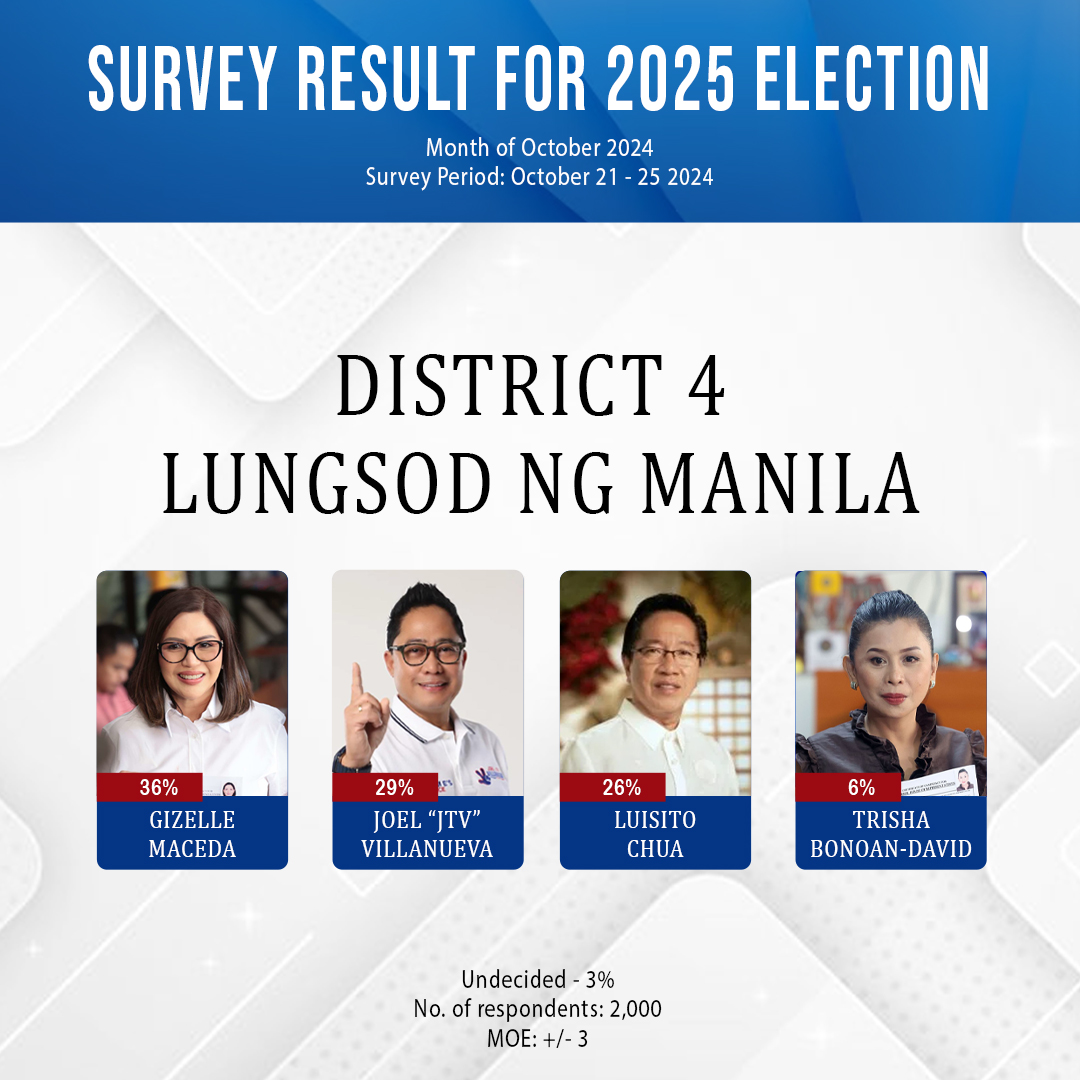
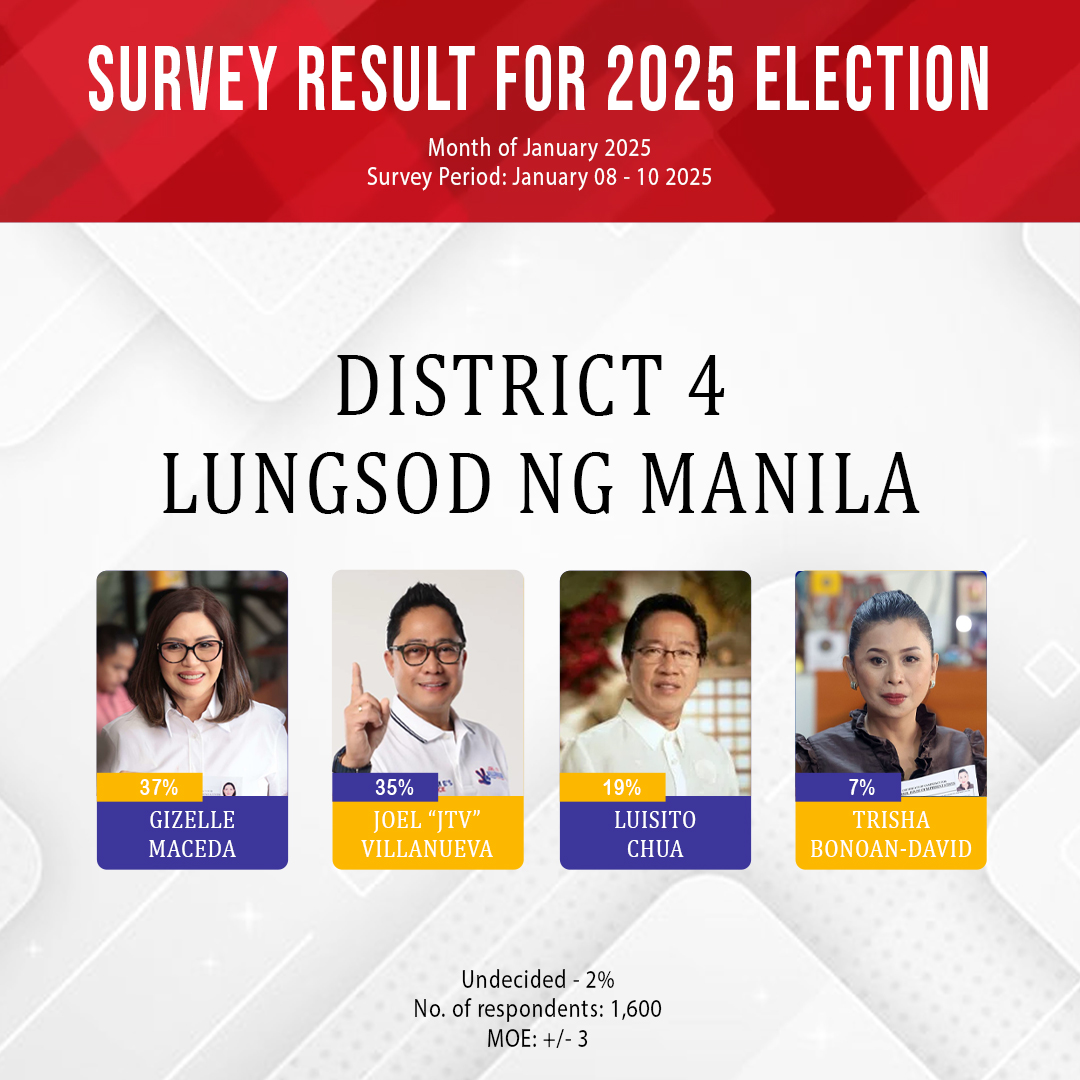
up

diff --git a/district4lungsodngmanila.html b/district4lungsodngmanila.html
@@ -83,11 +83,11 @@
         <div class="article-container">
             <!-- CATEGORY AND HEADLINE-->
             <div class="category">Politics</div>
-            <h1 class="headline">Bagong Resulta ng Polls sa Congressional Race ng Ika-4 na Distrito ng Maynila. Dra. Giselle Maceda ang nanguna.</h1>
+            <h1 class="headline">Poll Results sa Ikaapat na Distrito ng Maynila para sa Pagka-Kongresista, Maceda nangunguna</h1>
             <div class="date">
                 <span><img src="img/logos/lets-icons--date-fill.svg" alt=""></span>
-                <span>October 27, 2024</span>
-                <span style="margin-left: 10px;"><img src="img/logos/mingcute--time-fill.svg" alt=""> 11:12 am</span>
+                <span>January 12, 2025</span>
+                <span style="margin-left: 10px;"><img src="img/logos/mingcute--time-fill.svg" alt=""> 11:13AM</span>
             </div>
             <!-- SOCIAL BUTTONS LIKE FB,TWITTER, AND LINKEDIN-->
             <div class="social-buttons">
@@ -109,17 +109,17 @@
                 <div class="content">
                   
 
-                    <p>Maynila, Pilipinas – Isang bagong public opinion survey na isinagawa noong Oktubre 22-26, 2024, na may 2,000 rehistradong botante na may edad 18 pataas, ang nagbigay ng bagong pananaw tungkol sa pagbabago ng political landscape bago ang 2025 elections sa Maynila. Ang survey, na may margin of error na ± 3%, ay sumukat ng opinyon ng publiko tungkol sa malapit na laban sa congressional race sa Ika-4 na Distrito ng Maynila.</p> <br>
+                    <p>January 8-10 2025, isang survey ang isinagawa sa 1,600 rehistradong botante sa ika-4 na distrito ng Maynila upang alamin ang pulso ng publiko para sa darating na halalan. Ayon sa resulta ng survey, nananatiling nangunguna si Dra. Giselle Lazaro Maceda sa karera sa pagka-kongresista, ngunit bumaba ang kanyang porsyento mula 39% noong nakaraang buwan sa 37%. Ang pagbaba ay iniuugnay sa tumataas na kamalayan ng mga taga-Sampaloc na si Dra. Maceda ay hindi tubong Sampaloc at walang sapat na karanasan sa pamumuno.</p> <br>
 
-                    <p>Sa pinakahuling resulta ng survey, makikita ang paggalaw sa ranggo ng mga kandidato. Si Dra. Giselle Maceda, asawa ni incumbent Congressman Edward Maceda ay napanatili ang pangunguna bagama't nakaranas ng pagbaba ng suporta ay may 36%. Ang dating pangatlo na si Incumbent City Councilor na si Joel "JTV" Villanueva, ay umangat sa pangalawang pwesto na may 29%. Nalampasan nito ang dating pumapangalawa na si  Doc Louie Chua na ngayon ay may 26% habang ang dating 3 termer Congresswoman naman na si Trisha Bonoan-David  ay nananatiling nasa huling pwesto na may 5%.</p> <br>
+                    <p>Samantala, si Joel “JTV” Villanueva, na dating nasa ikatlong pwesto noong Nobyembre 2024, ay umakyat sa ikalawang pwesto. Nakakuha siya ng 35% mula sa dating 25%, na nagpapakita ng lumalaking suporta mula sa mga botante.</p> <br>
 
-                    <p>Ang mga pagbabagong ito sa polls ay may kinalaman sa iba't ibang salik na nakakaapekto sa mga pananaw ng mga botante. Si Chua, na isang doktor, ay sinasabing hindi akma ang kanyang galawan sa tungkuling nais niyang pasukin bilang miyembro ng Kongreso ang nakitang naging dahilan ng kanyang pagbaba. Ganun din ang pagiging "political butterfly" nito dahil sa pakikipag laro sa administrasyon ni Mayor Honey Lacuna samantalang ang kinakampanya ay ang tatakbong Alkalde na si Sam Versoza. Sa kabilang banda,  si Dra. Giselle Maceda ay kinuwestiyon ng ilang botante dahil sa kawalan ng karanasan sa politika, hindi pagiging lehitimong taga Sampaloc at ang kanyang posisyon sa "top spot" ay dulot lamang ng impluwensya ng kanyang asawang kasalukuyang kongresista ng distrito. Wala rin umano itong konkretong programa na binabanggit kung hindi asawa siya ng kasalukuyang Congressman.</p> <br>
+                    <p>Si Luistro Chua, na dating nasa ikalawang pwesto, ay bumagsak sa ikatlo na may 19%, mula sa nakaraang 28%. Ayon sa mga botante, ang pagbagsak ay sanhi ng limitado at piling serbisyong medikal na kanyang naibibigay, isa din si tinitingnan ng mga mamamayan ay ang kanyang palipat lipat na sinasamahang partido.</p> <br>
 
-                    <p>Sa mga aspirant ay si Councilor Villanueva ay may pinaka malaking pag-angat. Ito ay bunga ng sunod-sunod na exposure nito sa loob ng konseho ng Maynila na kinakitaan ng kanyang husay at matibay na kredibilidad at paninindigan.  Marami sa sumagot sa survey ang naniniwala na siya ang pinakahanda sa serbisyo sa trabaho sa Kongreso. Itinuturing din na ang paglago ni Villanueva sa kanyang pagsama kay dating Mayor Isko Moreno, na muling tatakbo bilang alkalde ng Maynila, at maraming botante ang nagsasabing ang "magic" ni Yorme ang nagbigay lakas sa kanyang kandidatura.</p> <br>
+                    <p>Si Trisha Bonoan naman ay nananatili sa huling pwesto, ngunit bahagyang tumaas ang kanyang porsyento mula 6% noong Nobyembre sa 7% ngayong Januray.</p> <br>
 
-                    <p>Ang resulta ng poll na ito ay nagbigay ng isang larawan ng mga pagbabago sa politika sa Ika-4 na Distrito ng Maynila habang papalapit ang 2025 elections, bagamat may natitira pa ring 3% na bahagi ng mga populasyon ang nananatiling hindi pa desisido sa kung sino ang kanilang iboboto.</p> <br>
+                    <p>Ayon sa survey, 2% ng mga botante ang nananatiling hindi pa desidido kung sino ang kanilang iboboto sa darating na eleksyon. Ang survey ay may margin of error na ±3%.</p> <br>
 
-                    
+                    <p>Ang patuloy na pagbabagong ito sa mga numero ay nagpapakita ng mahalagang papel ng mga isyu at track record ng mga kandidato sa pagpapasya ng mga botante sa 4th District ng Maynila.</p> <br>
                     
                 </div>
                 <br>
